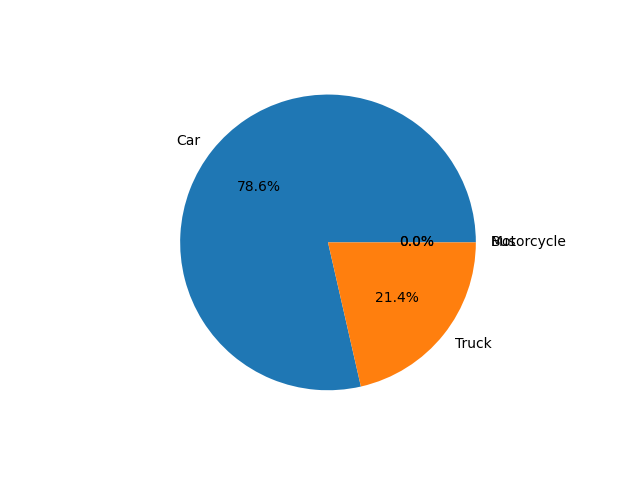
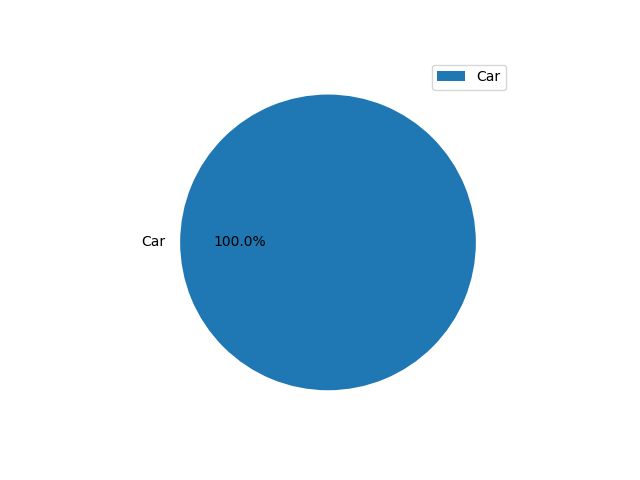
last update 4/11

diff --git a/static/map.html b/static/map.html
@@ -25,7 +25,7 @@
             <meta name="viewport" content="width=device-width,
                 initial-scale=1.0, maximum-scale=1.0, user-scalable=no" />
             <style>
-                #map_e66ece2cc1d89bc7fc9129726f45fb15 {
+                #map_6d779590a8e5b99e5ed960999c346795 {
                     position: relative;
                     width: 100.0%;
                     height: 100.0%;
@@ -39,14 +39,14 @@
 <body>
     
     
-            <div class="folium-map" id="map_e66ece2cc1d89bc7fc9129726f45fb15" ></div>
+            <div class="folium-map" id="map_6d779590a8e5b99e5ed960999c346795" ></div>
         
 </body>
 <script>
     
     
-            var map_e66ece2cc1d89bc7fc9129726f45fb15 = L.map(
-                "map_e66ece2cc1d89bc7fc9129726f45fb15",
+            var map_6d779590a8e5b99e5ed960999c346795 = L.map(
+                "map_6d779590a8e5b99e5ed960999c346795",
                 {
                     center: [35.668215952240345, 139.30232459692803],
                     crs: L.CRS.EPSG3857,
@@ -60,19 +60,19 @@
 
         
     
-            var tile_layer_6d4404e68c5ab63f12c8aeeef286182d = L.tileLayer(
+            var tile_layer_01a933100752b8ba38f35fecbcdeb68c = L.tileLayer(
                 "https://tile.openstreetmap.org/{z}/{x}/{y}.png",
                 {"attribution": "\u0026copy; \u003ca href=\"https://www.openstreetmap.org/copyright\"\u003eOpenStreetMap\u003c/a\u003e contributors", "detectRetina": false, "maxNativeZoom": 19, "maxZoom": 19, "minZoom": 0, "noWrap": false, "opacity": 1, "subdomains": "abc", "tms": false}
             );
         
     
-            tile_layer_6d4404e68c5ab63f12c8aeeef286182d.addTo(map_e66ece2cc1d89bc7fc9129726f45fb15);
+            tile_layer_01a933100752b8ba38f35fecbcdeb68c.addTo(map_6d779590a8e5b99e5ed960999c346795);
         
     
-            var poly_line_7e345d81f85e4ddd19e4ebb3edb30017 = L.polyline(
+            var poly_line_f4a8e38b84355f9827105f035f928fd4 = L.polyline(
                 [[35.67622529435731, 139.31493925615086], [35.67341420095618, 139.3094525105975], [35.66839384886371, 139.30260751315072], [35.666336807784944, 139.29782245226014], [35.665883554324274, 139.29606292314352], [35.6649073073867, 139.29140660826593], [35.66203079604145, 139.28614947860407]],
-                {"bubblingMouseEvents": true, "color": "orange", "dashArray": null, "dashOffset": null, "fill": false, "fillColor": "orange", "fillOpacity": 0.2, "fillRule": "evenodd", "lineCap": "round", "lineJoin": "round", "noClip": false, "opacity": 0.6, "smoothFactor": 1.0, "stroke": true, "weight": 8}
-            ).addTo(map_e66ece2cc1d89bc7fc9129726f45fb15);
+                {"bubblingMouseEvents": true, "color": "green", "dashArray": null, "dashOffset": null, "fill": false, "fillColor": "green", "fillOpacity": 0.2, "fillRule": "evenodd", "lineCap": "round", "lineJoin": "round", "noClip": false, "opacity": 0.6, "smoothFactor": 1.0, "stroke": true, "weight": 8}
+            ).addTo(map_6d779590a8e5b99e5ed960999c346795);
         
 </script>
 </html>

diff --git a/templates/layout.html b/templates/layout.html
@@ -14,6 +14,9 @@
         <meta name="description" content="">
         <meta name="viewport" content="width=device-width, initial-scale=1">
         <link rel="stylesheet" type="text/css" href="{{ url_for('static', filename='main.css') }}">
+        <link rel="stylesheet" href="https://unpkg.com/leaflet@1.7.1/dist/leaflet.css" />
+        <script src="https://unpkg.com/leaflet@1.7.1/dist/leaflet.js"></script>
+        <script src="https://code.jquery.com/jquery-3.6.0.min.js"></script>
     </head>
     <body>
         <!--[if lt IE 7]>
@@ -24,7 +27,7 @@
         <div class="container">
             <!-- First frame (top-left) with embedded Folium map -->
             <div class="frame frame1">
-                <iframe id="mapFrame" src="{{ url_for('static', filename='map.html') }}" width="100%" height="100%" frameborder="0"></iframe>
+                <div id="map" style="width: 100%; height: 100%;"></div>
             </div>
 
             <!-- Video feed in the second frame -->
@@ -50,12 +53,30 @@
         </div>
 
         <script>
-            // Refresh the map every 5 seconds
-            document.addEventListener('DOMContentLoaded', function() {
-                setInterval(async function() {
-                    await fetch("/generate_map"); // Call route to generate new map
-                    document.getElementById('mapFrame').src = "{{ url_for('static', filename='map.html') }}" + "?t=" + new Date().getTime(); // Refresh iframe
-                }, 5000); // 5000 milliseconds = 5 seconds
+            var map = L.map('map').setView([35.668215952240345, 139.30232459692803], 14);
+
+            L.tileLayer('https://{s}.tile.openstreetmap.org/{z}/{x}/{y}.png', {
+                attribution: '&copy; <a href="https://www.openstreetmap.org/copyright">OpenStreetMap</a> contributors'
+            }).addTo(map);
+
+            var polyline;
+
+            function updateMap() {
+                $.getJSON('/generate_map', function(data) {
+                    var coords = data.coords;
+                    var color = data.color;
+
+                    if (polyline) {
+                        map.removeLayer(polyline);
+                    }
+
+                    polyline = L.polyline(coords, {color: color, weight: 8, opacity: 0.6}).addTo(map);
+                });
+            }
+
+            $(document).ready(function() {
+                updateMap();
+                setInterval(updateMap, 5000); // Update every 5 seconds
             });
         </script>
 
@@ -65,7 +86,6 @@
                 await fetch("/generate_pie_chart");
                 document.getElementById('pieChart').src = "{{ url_for('static', filename='pie_chart.png') }}" + "?t=" + new Date().getTime();
                 document.getElementById('TimeSeriesChart').src = "{{ url_for('static', filename='time_series.png') }}" + "?t=" + new Date().getTime();
-
             }, 5000);  // 5000 milliseconds = 5 seconds
         </script>
     </body>

diff --git a/static/main.css b/static/main.css
@@ -84,3 +84,4 @@ body, html {
     height: 100%;
     object-fit: cover; /* Keeps aspect ratio while filling frame */
 }
+

diff --git a/optimize.py b/optimize.py
@@ -7,8 +7,7 @@ import numpy as np
 from ultralytics import YOLO
 from vidgear.gears import CamGear
 from tracker import *
-import folium
-from traffic_pred.traffic_prediction import Traiffic_Classifier
+from traffic_pred.traffic_prediction import Traffic_Classifier
 import time
 import matplotlib.dates as mdates
 import matplotlib
@@ -20,20 +19,24 @@ app = Flask(__name__)
 
 # Load the YOLO model and traffic classifier
 yolo_model = YOLO('yolov8m.pt')
-traffic_model = Traiffic_Classifier()
+traffic_model = Traffic_Classifier()
 
 video_stream = CamGear(source='https://www.youtube.com/watch?v=wqctLW0Hb_0',
                        stream_mode=True, logging=True).start()  # not stream
-# Initialize video stream
+# # Initialize video stream
 # video_stream = CamGear(source='https://www.youtube.com/watch?v=FsL_KQz4gpw',
 #                        stream_mode=True, logging=True).start()
 
-vehicle_classes = ['car','truck',  'bus', 'motorcycle']
-color_map = {'low': 'green', 'normal': 'yellow', 'heavy': 'orange', 'high': 'red'}
+# video_stream = CamGear(source='https://www.youtube.com/watch?v=Y1jTEyb3wiI',
+#                        stream_mode=True, logging=True).start()
+
+vehicle_classes = ['car', 'truck',  'bus', 'motorcycle']
+color_map = {'low': 'green', 'normal': 'yellow',
+             'heavy': 'orange', 'high': 'red'}
 
 # Initialize vehicle counts as a dictionary
 traffic_pie = np.zeros(4, dtype=int)
-vehicle_counts = np.zeros(len(vehicle_classes), dtype=int)
+vehicle_counts = np.zeros(4, dtype=int)
 
 traffic_data = [0, "low"]
 utc_plus_9 = timezone(timedelta(hours=9))
@@ -49,11 +52,11 @@ def index():
     return render_template('layout.html')
 
 
-@app.route('/vehicle_counts')
-def get_vehicle_counts():
-    return jsonify({
-        'counts': dict(zip(vehicle_classes, vehicle_counts.tolist())),
-    })
+# @app.route('/vehicle_counts')
+# def get_vehicle_counts():
+#     return jsonify({
+#         'counts': dict(zip(vehicle_classes, vehicle_counts.tolist())),
+#     })
 
 
 def generate_frames():
@@ -64,7 +67,7 @@ def generate_frames():
     frame_counter = 0
     fps = 0
     prev_time = time.time()
-    
+
     while True:
         vehicle_counts[:] = 0  # Reset vehicle counts for each frame
         frame = video_stream.read()
@@ -72,7 +75,7 @@ def generate_frames():
             continue
 
         frame = cv2.resize(frame, (1020, 500))
-        
+
         # Predict on every frame for accurate tracking
         results = yolo_model.predict(frame)
         detected_boxes = results[0].boxes.data
@@ -83,12 +86,13 @@ def generate_frames():
             bbox_y1 = int(row[1])
             bbox_x2 = int(row[2])
             bbox_y2 = int(row[3])
-            detected_class = class_list[int(row[5])]
+            detected_class = class_list[int(row[5])] # float 4.312
 
             for idx, obj_class in enumerate(vehicle_classes):
                 # if obj_class in detected_class and bbox_x1 > line_x_coords:
-                if obj_class in detected_class :
-                    bounding_box_list.append([bbox_x1, bbox_y1, bbox_x2, bbox_y2])
+                if obj_class in detected_class:
+                    bounding_box_list.append(
+                        [bbox_x1, bbox_y1, bbox_x2, bbox_y2])
                     vehicle_counts[idx] += 1
 
         bbox_ids = vehicle_tracker.update(bounding_box_list)
@@ -99,7 +103,7 @@ def generate_frames():
             cv2.circle(frame, (center_x, center_y), 4, (0, 0, 255), -1)
             cv2.putText(frame, str(vehicle_id), (center_x, center_y),
                         cv2.FONT_HERSHEY_COMPLEX, 0.8, (0, 255, 255), 2)
-            
+
         frame_counter += 1
         current_time = time.time()
         if current_time - prev_time >= 1.0:
@@ -117,15 +121,16 @@ def generate_frames():
                         (0, y_position), cv2.FONT_HERSHEY_COMPLEX, 0.8, (0, 0, 255), 2)
             y_position += 30
 
-        cv2.line(frame, (line_x_coords, 0), (line_x_coords, 900), (255, 255, 255), 1)
+        cv2.line(frame, (line_x_coords, 0),
+                 (line_x_coords, 900), (255, 255, 255), 1)
 
         # Encode the frame for streaming
-        ret, buffer = cv2.imencode('.jpg', frame)
-        frame = buffer.tobytes()
+        ret, buffer = cv2.imencode('.jpg', frame) # image encode 
+        frame = buffer.tobytes() # covert pic to bytes 
         traffic_data = get_volume()
         traffic_pie = vehicle_counts.copy()
-        traffic_pie[0]+=1
-        
+        traffic_pie[0] += 1
+
         yield (b'--frame\r\n' b'Content-Type: image/jpeg\r\n\r\n' + frame + b'\r\n')
 
 
@@ -137,28 +142,28 @@ def video_feed():
 def get_volume():
     global traffic_model, vehicle_counts
     print(vehicle_counts)
-    
+
     # Ensure predict_input has the correct shape for the model
-    predict_input = (vehicle_counts * 15).reshape(1, -1) + np.random.randint(0, 10, size=vehicle_counts.size)
-    
+    predict_input = (vehicle_counts * 15).reshape(1, -1) + \
+        np.random.randint(0, 10, size=vehicle_counts.size)
+
     # Tính tổng cho cột cuối cùng
-    total_count = np.sum(predict_input[0, :-1]) 
-    predict_input = np.append(predict_input, total_count).reshape(1, -1) 
-    
+    total_count = np.sum(predict_input[0, :-1])
+    predict_input = np.append(predict_input, total_count).reshape(1, -1)
+
     print(predict_input)
-    
+
     # Predict traffic volume
     pred_volume = traffic_model.predict_text(predict_input.reshape(1, -1))[0]
     print(pred_volume)
-    
-    return [total_count, pred_volume]
 
+    return [total_count, pred_volume]
 
 
 @app.route("/generate_map")
 def generate_map():
-    gen_map()
-    return {"status": "Map updated"}
+    market_street_coords, color = gen_map()
+    return jsonify({'coords': market_street_coords, 'color': color})
 
 
 def gen_map():
@@ -173,69 +178,67 @@ def gen_map():
         [35.66203079604145, 139.28614947860407],
     ]
 
-    m = folium.Map(location=[35.668215952240345, 139.30232459692803], zoom_start=14)
     color = color_map[traffic_data[1]]
-    folium.PolyLine(market_street_coords, color=color, weight=8, opacity=0.6).add_to(m)
-    m.save('static/map.html')
+    return market_street_coords, color
+
 
 @app.route('/generate_pie_chart')
 def generate_pie_chart():
     global traffic_pie, queue
     # Sample data for the pie chart
     labels = ['Car', 'Truck', 'Bus', 'Motorcycle']
-    time_pie = time.strftime("%Y-%m-%dT%H:%M:%S")
-    sizes =  list(traffic_pie)
+    sizes = list(traffic_pie)
     fig, ax = plt.subplots()
-    ax.pie(sizes, labels=labels, autopct='%1.1f%%')
-    
+
+    non_zero_labels = [labels[i] for i in range(len(labels)) if sizes[i] != 0] 
+    sizes = [s for s in sizes if s != 0]
+    ax.pie(sizes, labels=non_zero_labels, autopct='%1.1f%%')
+
     # Save the plot to an in-memory file
+    plt.legend(loc='upper right')
     plt.savefig('static/pie_chart.png')
-    
+
     plt.close(fig)  # Close the figure to release memory
     print("pied")
-
-    # Define a timezone offset for UTC+9
-
-    # Initialize a deque with a maximum length of 10 (adjustable)
-
-    # Set up the plot
-
-
-
 
     fig, ax = plt.subplots()
     ax.set_title("Real-time Time Series Plot")
     ax.set_xlabel("Timestamp")
-    ax.set_ylabel("Random Value")
+    ax.set_ylabel("Vehicle counts")
     ax.set_ylim(0, 25)  # Set the y-axis range from 0 to 100
-    line, = ax.plot([], [], 'b-', marker='o')  # Initialize an empty line for the plot
+    # Initialize an empty line for the plot
+    line, = ax.plot([], [], 'b-', marker='o')
     ax.xaxis.set_major_formatter(mdates.DateFormatter('%H:%M:%S'))
     # Get the current time with the UTC+9 timezone
     current_time_utc_plus_9 = datetime.now(utc_plus_9)
-    print('curr time: ',current_time_utc_plus_9, type(current_time_utc_plus_9))
-
-    queue.append([current_time_utc_plus_9,np.sum(traffic_pie)])  # Automatically removes oldest if full
+    print('curr time: ', current_time_utc_plus_9, type(current_time_utc_plus_9))
     
+    current_time_utc_plus_9 = current_time_utc_plus_9 + timedelta(hours= +9)
+    # Automatically removes oldest if full
+    queue.append([current_time_utc_plus_9, np.sum(traffic_pie)])
+
     # Extract data from the queue for plotting
     times, values = zip(*queue)
-    
+    print("times:", times)
     # Update the plot's x and y data
     line.set_data(times, values)
     ax.set_xticks(times)  # Set x-axis ticks to the timestamp values
-    ax.set_yticks(range(0, 30, 10))  # Set y-axis ticks from 0 to 100 with steps of 10
+    # Set y-axis ticks from 0 to 100 with steps of 10
+    ax.set_yticks(range(0, 30, 10))
     ax.relim()         # Adjust plot limits
-    ax.autoscale_view() # Rescale view to fit new data
-    
+    ax.autoscale_view()  # Rescale view to fit new data
+
     # Rotate x-axis labels for readability
     plt.xticks(rotation=45, ha='right')
     plt.tight_layout()
-    
+
     plt.savefig('static/time_series.png')
-    
+
     plt.close(fig)
 
     # Return the in-memory file as a response
-    return 
+    return
+
 
 if __name__ == '__main__':
     gen_map()

diff --git a/traffic_pred/traffic_prediction.py b/traffic_pred/traffic_prediction.py
@@ -15,7 +15,7 @@ class Traffic_Situation_Encoder:
         return decode_map[number]
 
 
-class Traiffic_Classifier:
+class Traffic_Classifier:
     """Conslt at my traffic_prediction.ipynb
 
     Mainly dependent on traffic_prediction_dapassignment binary
@@ -40,7 +40,7 @@ if __name__ == "__main__":
     print(tse.to_number("low"))
     print(tse.to_string(2))
 
-    tc = Traiffic_Classifier()
+    tc = Traffic_Classifier()
     print(tc.grid)
     data = np.array([5, 10, 7, 9, 31]).reshape(1,-1)
     # data = data[:,np.newaxis]
